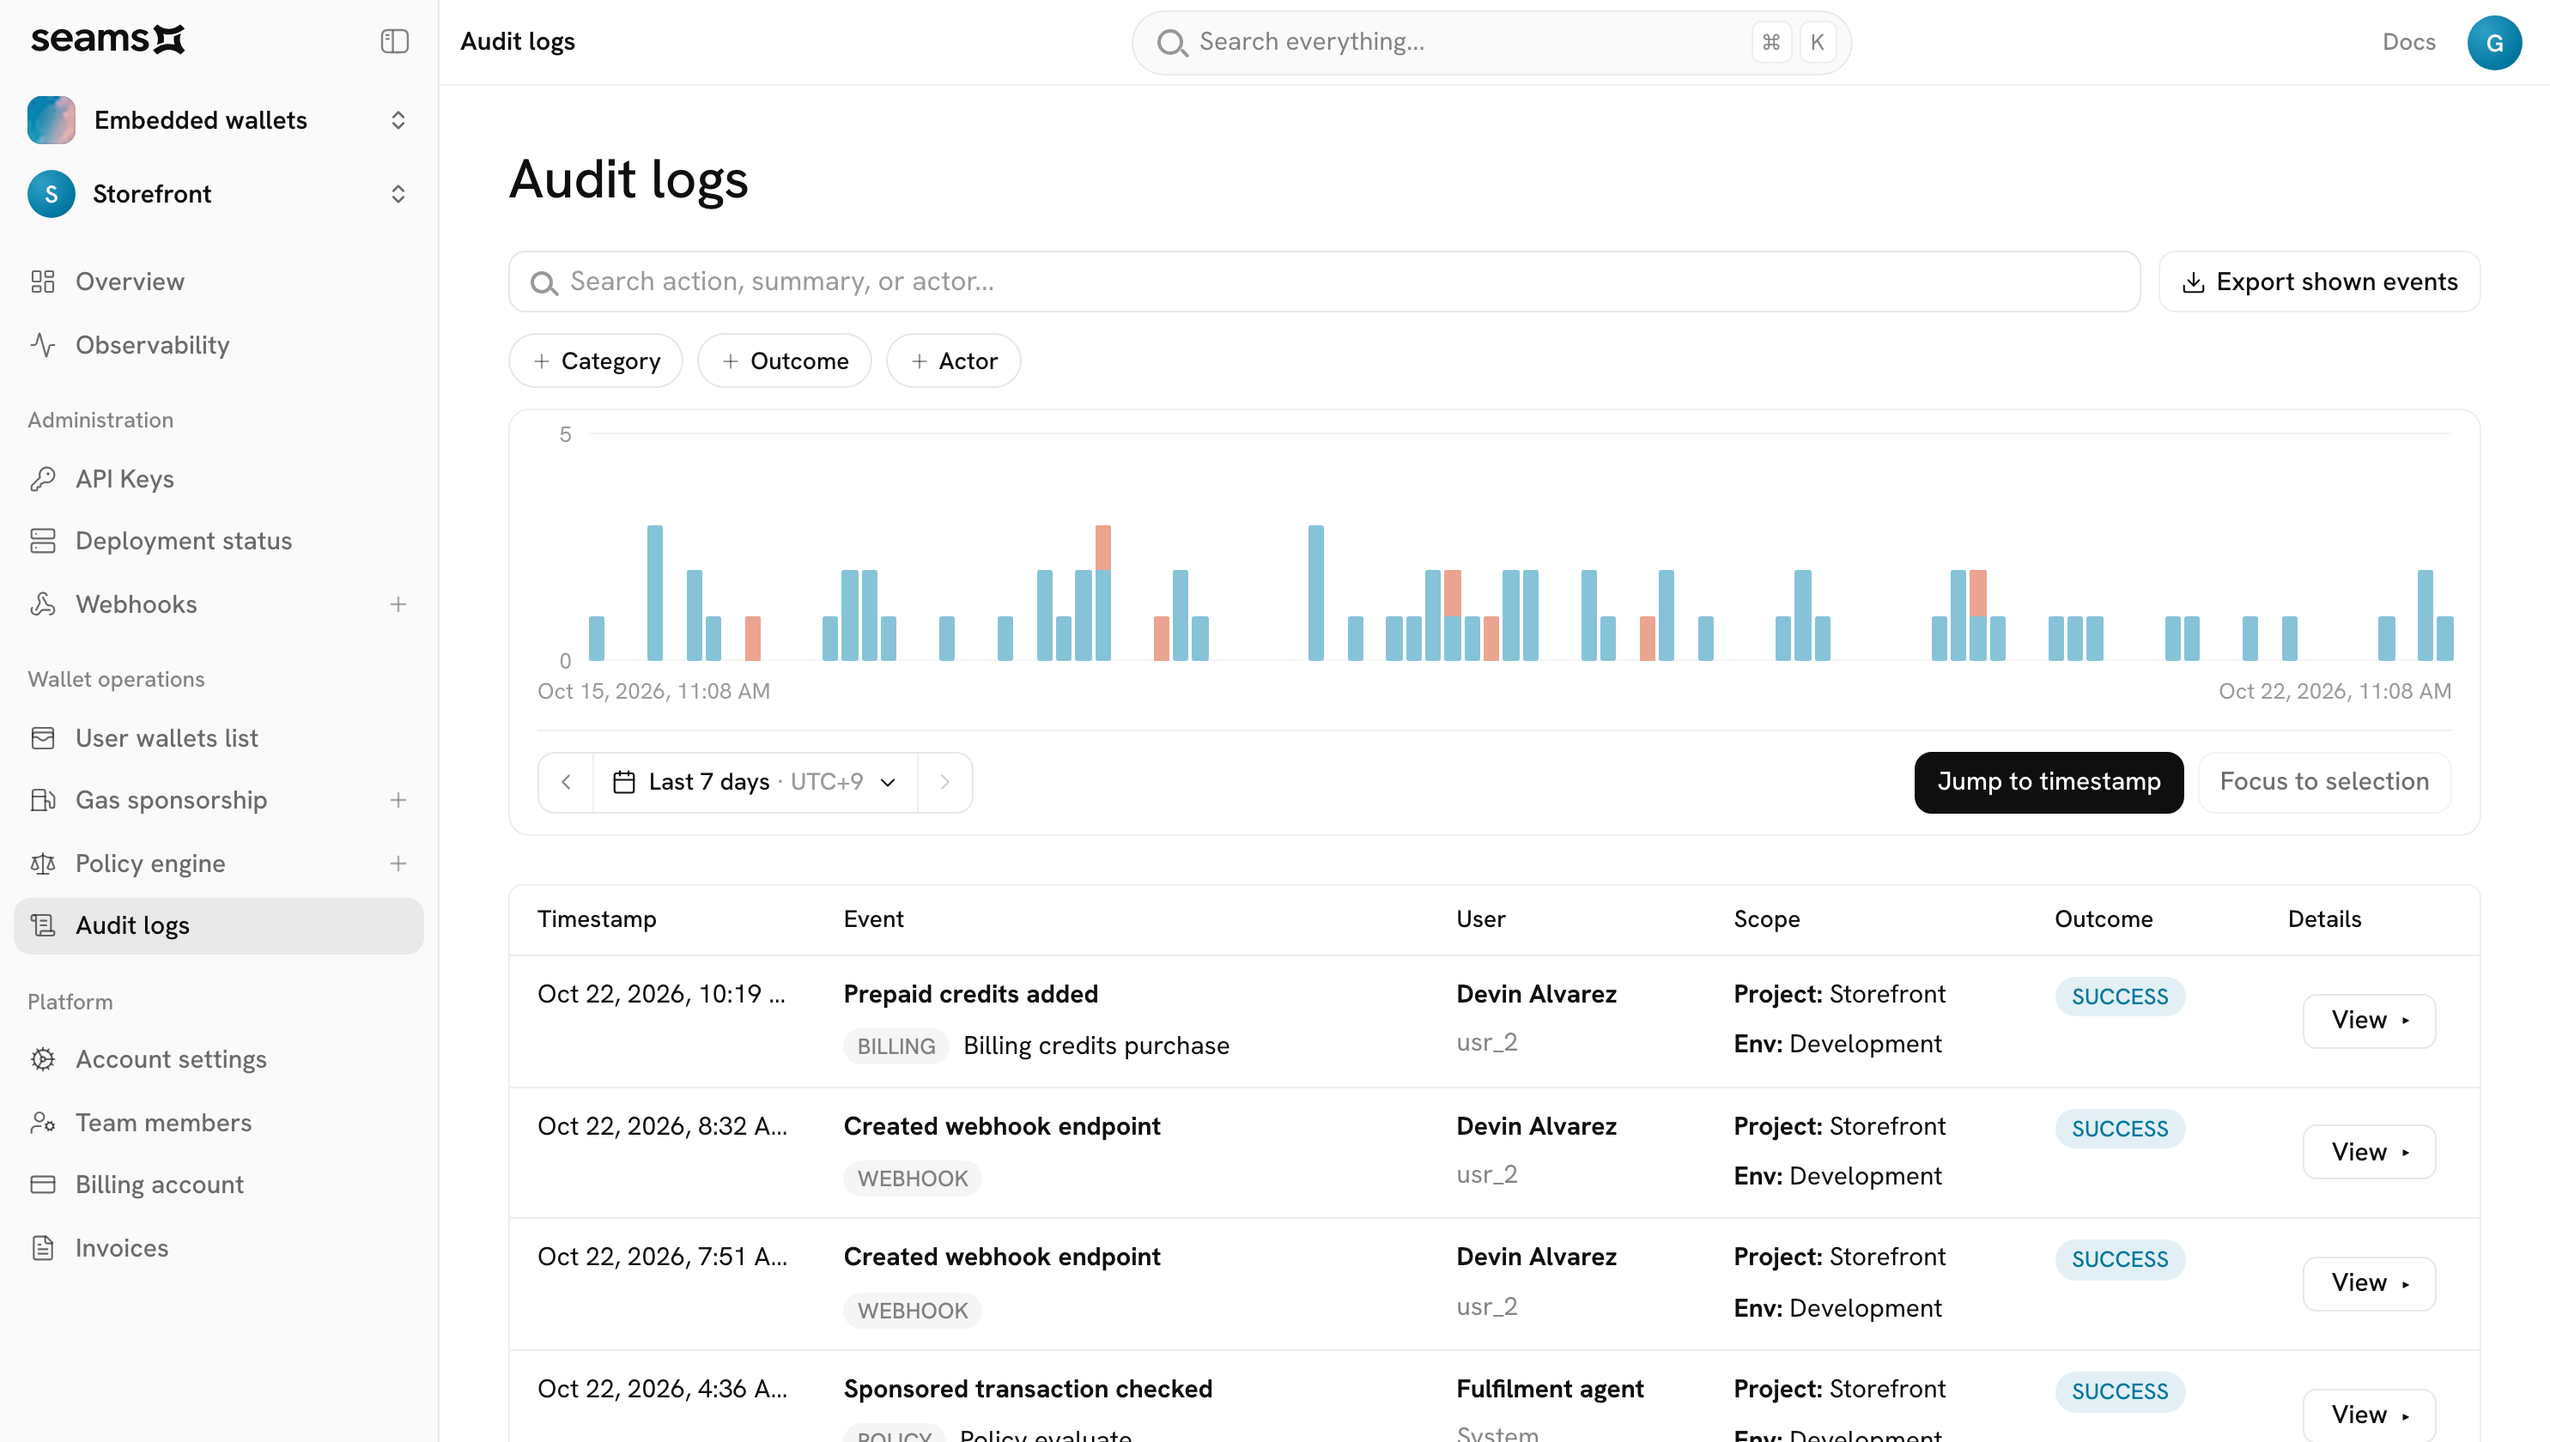
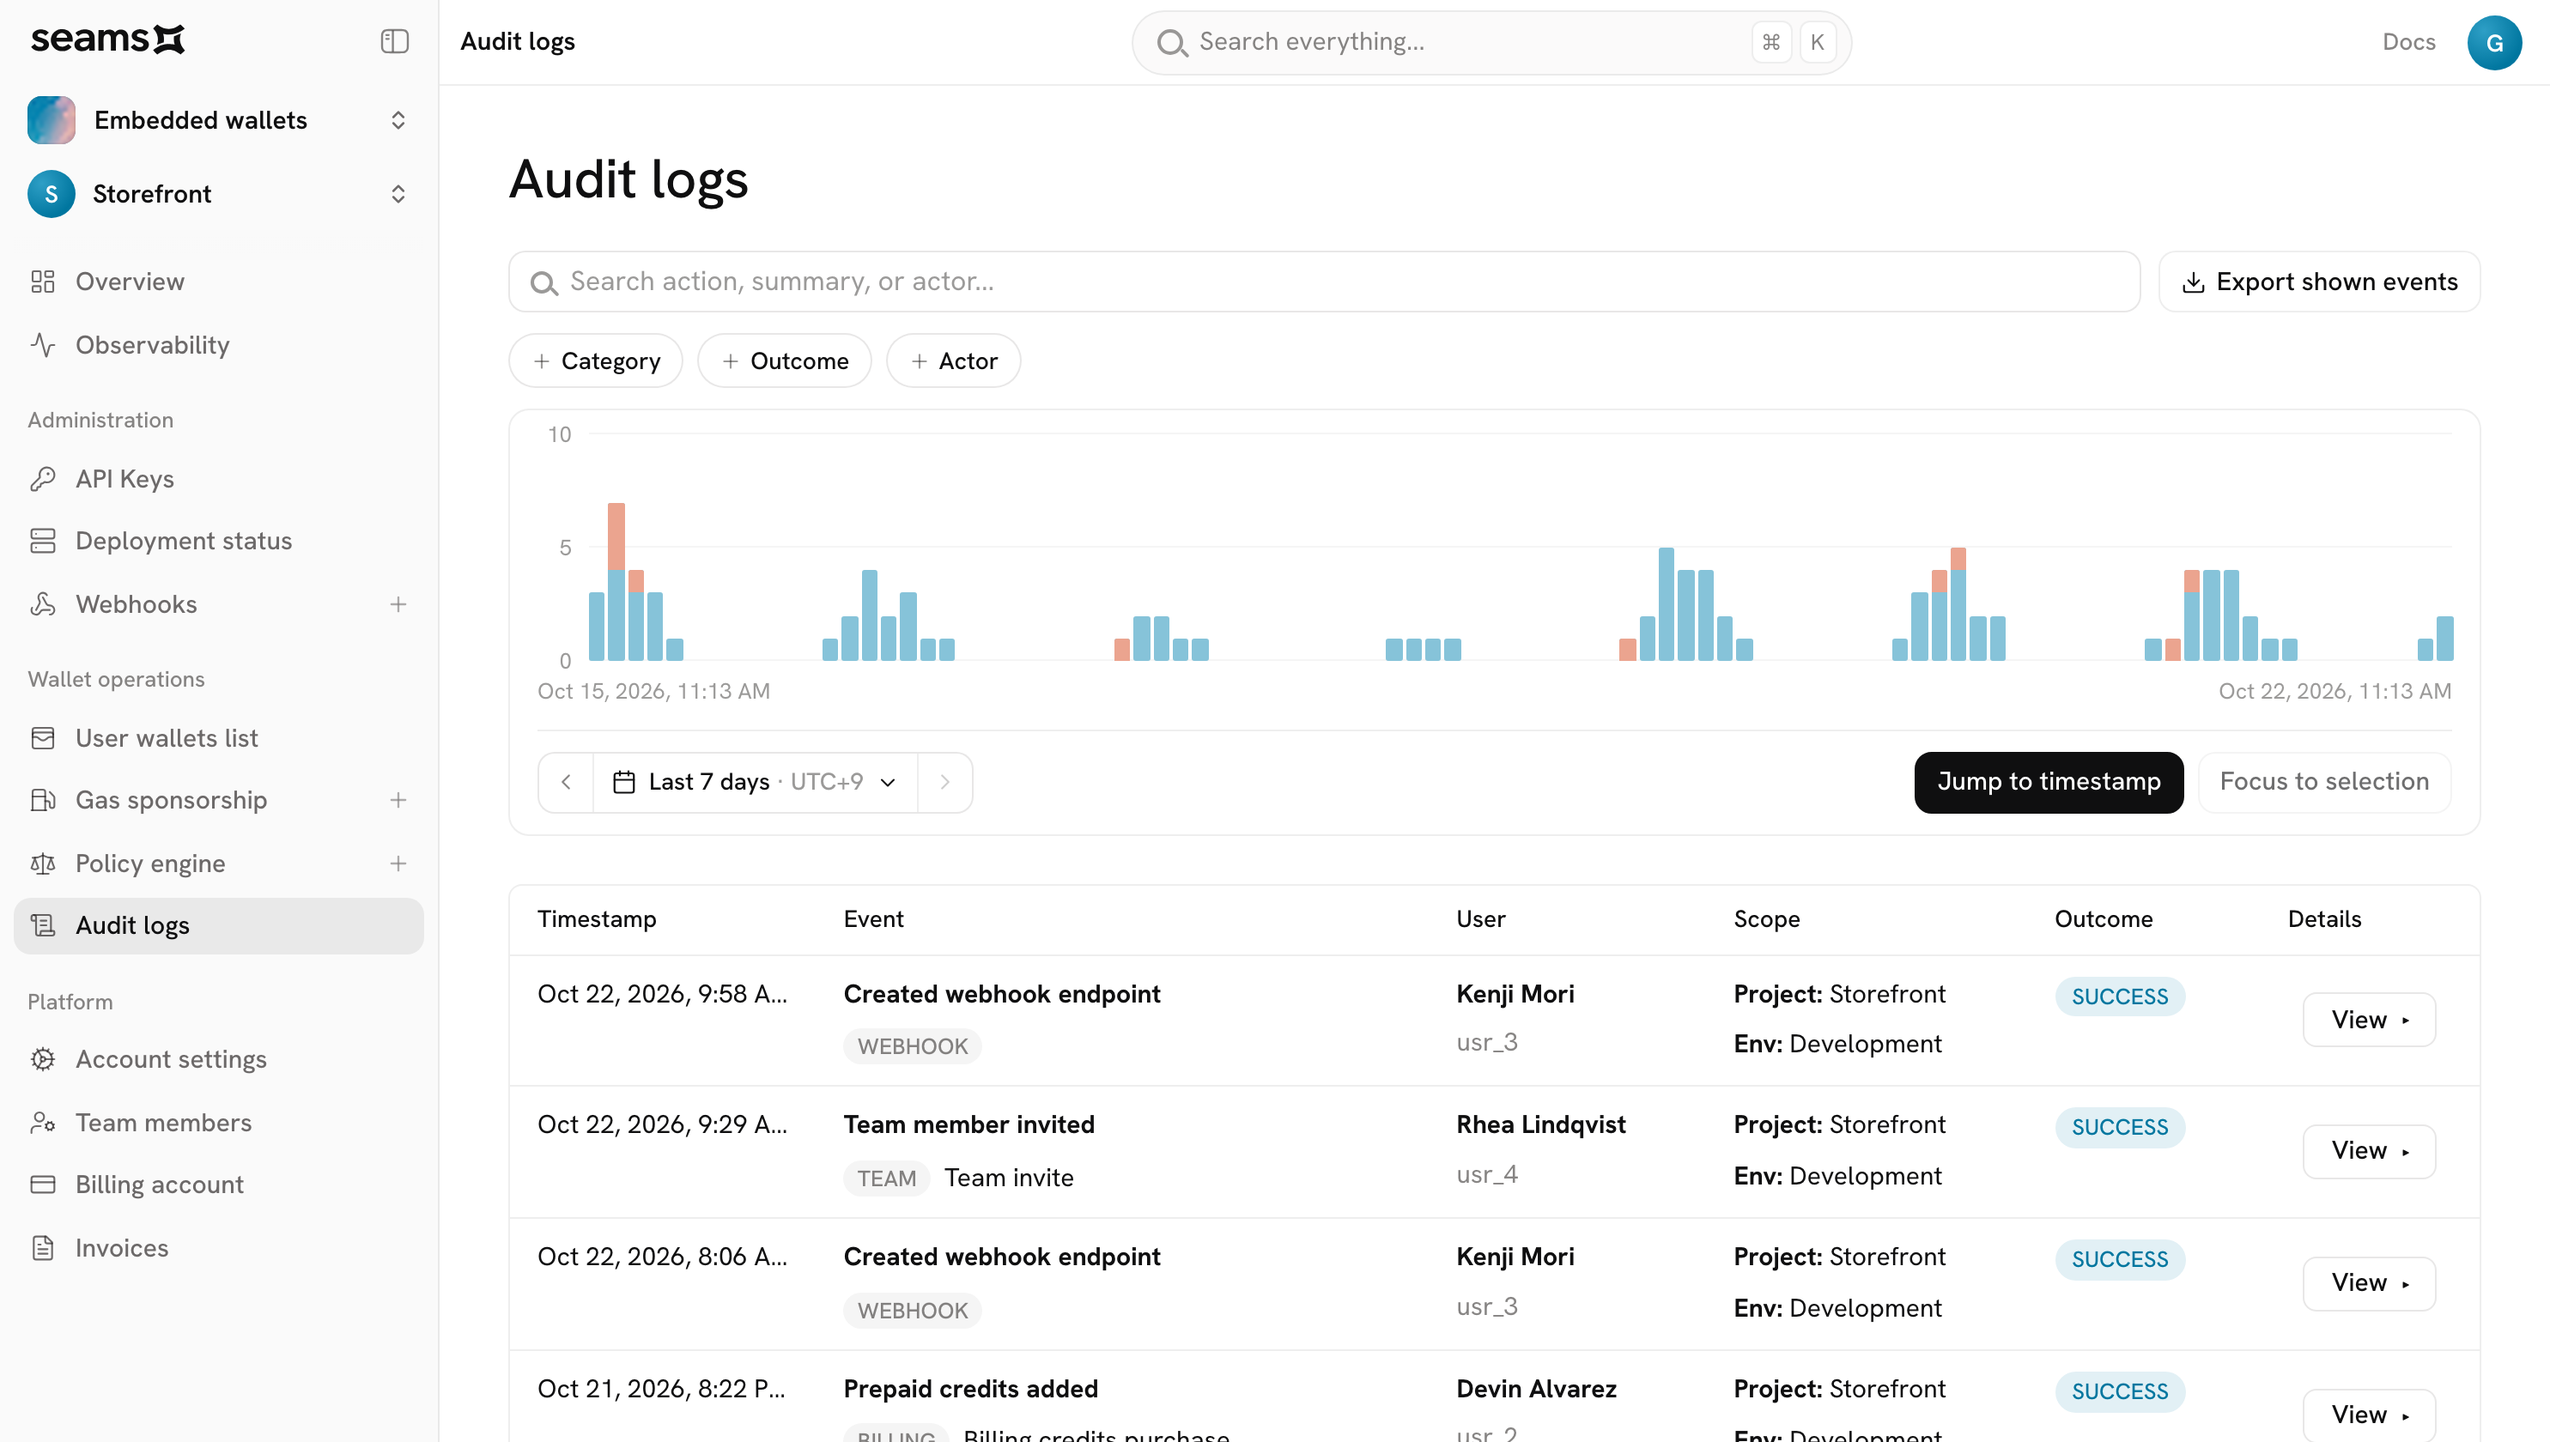
chore(site): audit screenshot with a daily activity rhythm
Recapture the audit logs screenshot with 100 mock events shaped into
one working-day peak per day, so the activity chart shows varied bar
heights. The page keeps the newest 100 events, so 100 is the most the
chart can show.

diff --git a/apps/seams-site/src/components/h2/sections.tsx b/apps/seams-site/src/components/h2/sections.tsx
@@ -1267,7 +1267,7 @@ const CONSOLE_SCREENS = [
     id: 'audit' as const,
     label: 'Audit logs',
     blurb: 'Every action attributed, timestamped, and exportable',
-    src: '/wallet-preview/wallet-console-audit.png?v=3',
+    src: '/wallet-preview/wallet-console-audit.png?v=4',
   },
 ];
 

diff --git a/apps/wallet-console/src/components/h2/sections.tsx b/apps/wallet-console/src/components/h2/sections.tsx
@@ -487,7 +487,7 @@ const CONSOLE_SCREENS = [
   {
     id: 'audit' as const,
     label: t('auditLogs'),
-    src: '/wallet-preview/wallet-console-audit.png?v=3',
+    src: '/wallet-preview/wallet-console-audit.png?v=4',
     callout: t('csvExport'),
   },
 ];
